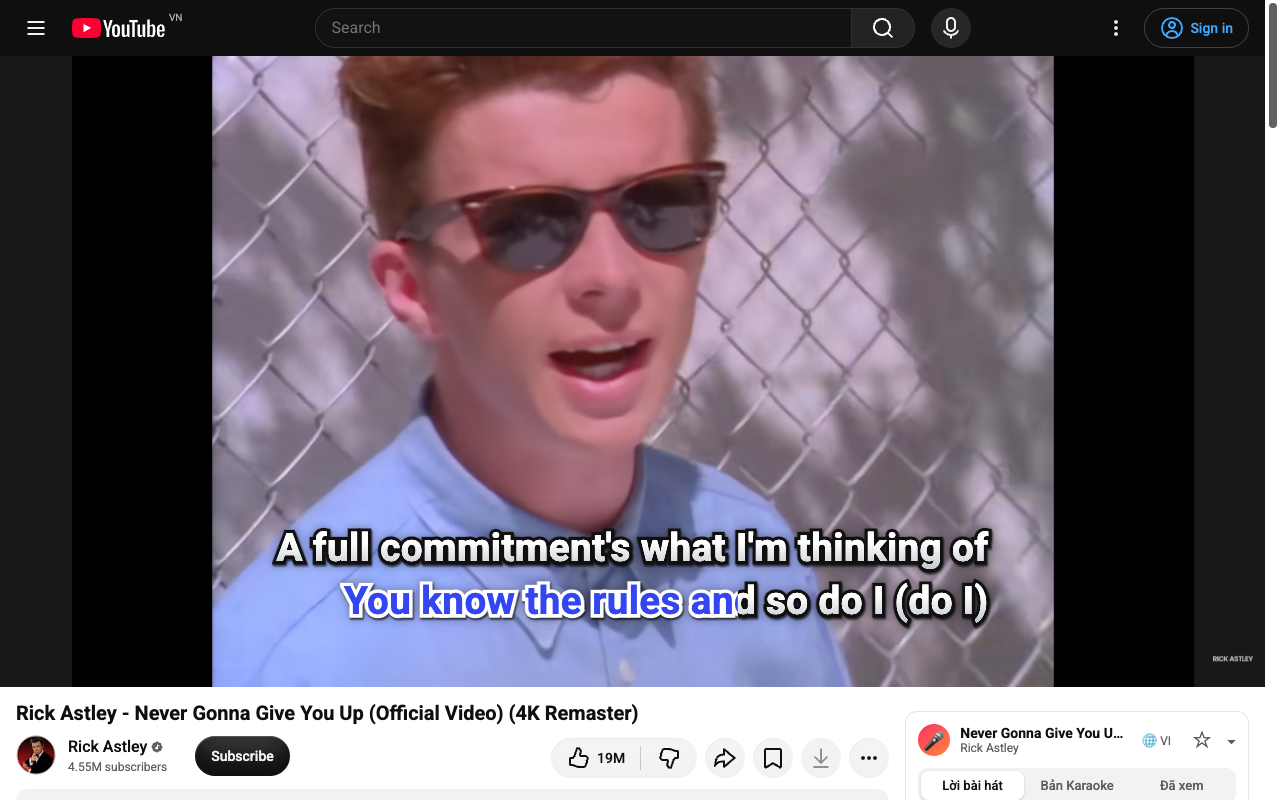
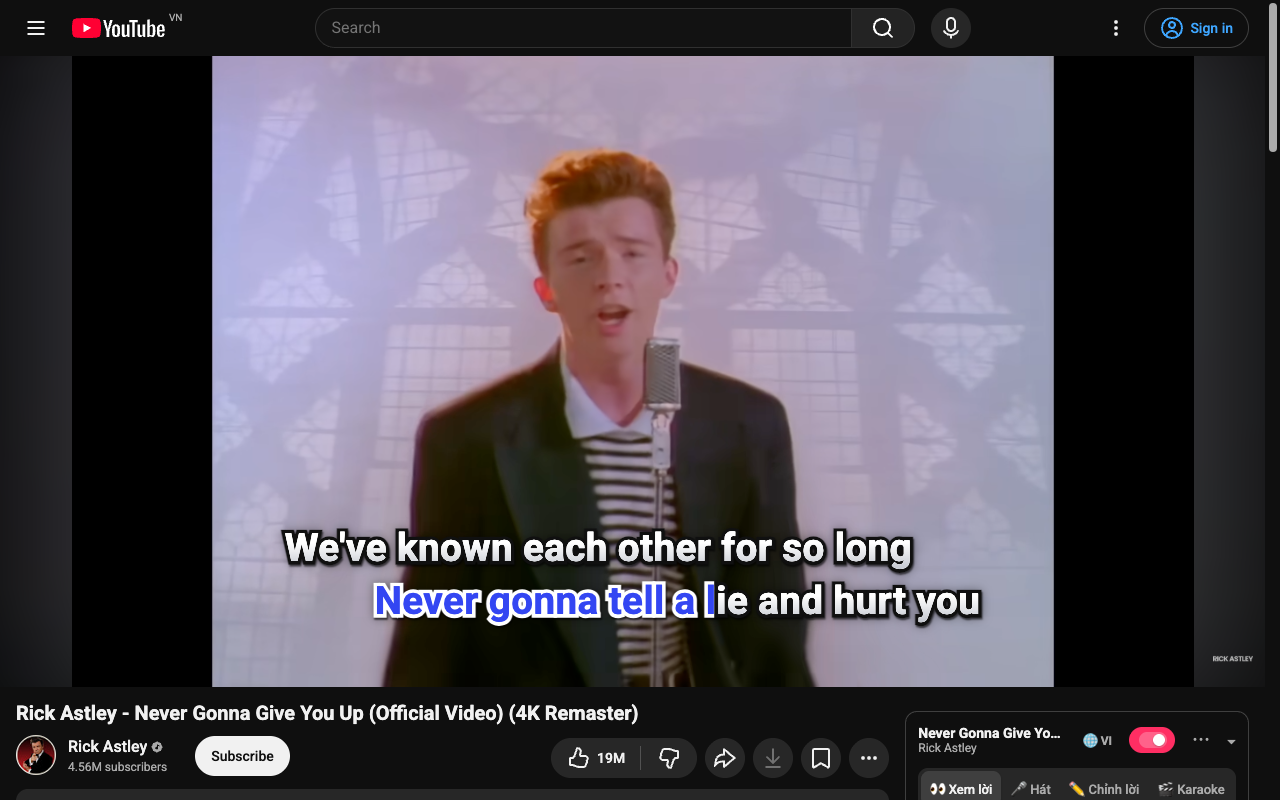
Store images redone from 0.24: four modes, 🎤 on the player, Sing mode with key and vocal cut, 🎨 with 🎲 random; fifth screenshot (studio) now real and in English too

diff --git a/store/mockups.html b/store/mockups.html
@@ -5,7 +5,9 @@
 <title>Store mockups</title>
 <!-- Chrome Web Store images built around real screenshots of the extension on
      YouTube (store/shots/*.png). Rendered by scripts/store-assets.mjs:
-     ?scene=hero|styles|karaoke|sound|promo|marquee&lang=vi|en -->
+     ?scene=hero|styles|karaoke|sound|studio|promo|marquee&lang=vi|en
+     shots/style-*.png are 1280 wide (theater, dark); panel-, sing-, studio-*.png
+     are 1440 wide (default layout, light). -->
 <style>
   * { box-sizing: border-box; }
   body { margin: 0; font-family: Roboto, -apple-system, 'Segoe UI', Arial, sans-serif; color: #fff; background: #0f0f14; overflow: hidden; }
@@ -42,30 +44,36 @@
     vi: {
       heroH: 'Lời bài hát <em>ngay trên YouTube</em>',
       heroS: 'Mở video nhạc là có lời: dòng đang hát sáng lên và tự cuộn, karaoke chạy ngay trên video.',
-      heroC: [['🔎 Tự tìm lời', 'Mô tả, comment, LRCLIB, Hợp âm chuẩn, Genius, phụ đề'], ['🎤 Karaoke trên video', 'Chữ đổi màu theo nhịp hát'], ['🎯 Canh lời dễ', 'Theo phụ đề, gõ nhịp Space, ghim 📍'], ['🌐 12 ngôn ngữ', 'Đổi ngay trên panel']],
+      heroC: [['🔎 Tự tìm lời', 'Mô tả, comment, LRCLIB, Hợp âm chuẩn, Genius, phụ đề'], ['🎤 Karaoke trên video', 'Chữ đổi màu theo nhịp hát, bật tắt ngay trên thanh điều khiển'], ['🧭 4 chế độ gọn', 'Xem lời · Hát · Chỉnh lời · Karaoke'], ['🌐 12 ngôn ngữ', 'Đổi ngay trên đầu panel']],
       stylesH: '9 kiểu <em>phụ đề karaoke</em>',
-      stylesS: 'Chọn một kiểu có sẵn, hoặc tự chỉnh màu, phông, viền, nền rồi lưu thành preset. Ghim 📌 riêng cho từng kênh.',
+      stylesS: 'Chọn một kiểu có sẵn, bấm 🎲 thử kiểu ngẫu nhiên, hoặc tự chỉnh rồi lưu thành preset. Ghim 📌 riêng cho từng kênh.',
+      studioH: 'Kiểu chữ <em>theo ý bạn</em>',
+      studioS: 'Bấm 🎲 để thử kiểu mới, chỉnh từng phần, ↺ để về mặc định, rồi lưu thành preset của riêng bạn.',
+      studioC: ['🎲 Ngẫu nhiên', '↺ Mặc định', '💾 Lưu preset', 'Phông · Màu · Viền · Nền', 'Chuyển màu · Phát sáng', '📌 Theo kênh'],
       karaH: 'Hát theo <em>từng chữ</em> trên video',
       karaS: 'Chữ đổi màu đúng lúc ca sĩ hát, cả khi xem toàn màn hình, chế độ rạp và YouTube Shorts.',
       karaC: ['Toàn màn hình', 'Shorts', 'Cửa sổ nổi ⧉', 'Song ngữ 🌐', 'Phiên âm Hàn · Nhật · Trung 🔤'],
       soundH: 'Hát trên <em>bài gốc</em>',
       soundS: 'Không cần bản karaoke: đổi tông và lọc giọng ca sĩ ngay trong trình duyệt.',
-      soundC: [['🎚 Đổi tông', 'Nâng, hạ nửa cung mà không đổi tốc độ. Nhớ riêng cho từng video.'], ['🎤 Lọc giọng', 'Bớt giọng ca sĩ, giữ lại tiếng đàn, trống và bass.'], ['🎙 Chấm điểm', 'Hát vào micro, mỗi dòng có điểm: đủ lời, đúng nốt.'], ['⬇ Xuất LRC · SRT · ASS', 'Phụ đề karaoke đúng kiểu chữ, ghép cứng vào video của bạn.']],
+      soundC: [['🎚 Đổi tông', 'Nâng, hạ nửa cung mà không đổi tốc độ. Nhớ riêng cho từng video.'], ['🎤 Lọc giọng', 'Giảm rõ giọng ca sĩ, giữ lại tiếng đàn, trống và bass. Kéo thanh để chỉnh mức.'], ['🎙 Chấm điểm', 'Hát vào micro, mỗi dòng có điểm: đủ lời, đúng nốt.'], ['⬇ Xuất LRC · SRT · ASS', 'Phụ đề karaoke đúng kiểu chữ, ghép cứng vào video của bạn.']],
       tag: 'Lời bài hát & karaoke ngay trên YouTube',
       names: { red: 'Karaoke đỏ', classic: 'Karaoke xanh dương', focus: 'Nổi bật', box: 'Khung tối', captions: 'Phụ đề YouTube', cinema: 'Dải điện ảnh', mini: 'Gọn nhẹ', fade: 'Sáng dần', big: 'Chữ lớn' },
     },
     en: {
       heroH: 'Song lyrics <em>right on YouTube</em>',
       heroS: 'Open a music video and the lyrics are there: the sung line lights up and scrolls, with karaoke on the video.',
-      heroC: [['🔎 Finds lyrics', 'Description, comments, LRCLIB, Genius, captions'], ['🎤 Karaoke on video', 'Words light up as they are sung'], ['🎯 Easy timing', 'Sync to captions, tap with Space, pin 📍'], ['🌐 12 languages', 'Switch from the panel']],
+      heroC: [['🔎 Finds lyrics', 'Description, comments, LRCLIB, Genius, captions'], ['🎤 Karaoke on video', 'Words light up as they are sung, one click on the player'], ['🧭 Four simple modes', 'Lyrics · Sing · Edit · Karaoke'], ['🌐 12 languages', 'Switch right at the top of the panel']],
       stylesH: '9 <em>karaoke subtitle</em> styles',
-      stylesS: 'Pick a built-in style, or tune colours, font, outline and background and save it as a preset. Pin 📌 one per channel.',
+      stylesS: 'Pick a built-in style, roll 🎲 for a random one, or tune it and save it as a preset. Pin 📌 one per channel.',
+      studioH: 'Your own <em>subtitle style</em>',
+      studioS: 'Roll 🎲 for a fresh look, fine-tune each part, ↺ to start over, then save it as your own preset.',
+      studioC: ['🎲 Random', '↺ Default', '💾 Save preset', 'Font · Colour · Outline · Background', 'Gradient · Glow', '📌 Per channel'],
       karaH: 'Sing along <em>word by word</em>',
       karaS: 'Words change colour right as they are sung, in full screen, theater mode and on YouTube Shorts.',
       karaC: ['Full screen', 'Shorts', 'Floating window ⧉', 'Translations 🌐', 'Korean · Japanese · Chinese romanization 🔤'],
       soundH: 'Sing over <em>the original</em>',
       soundS: 'No karaoke version needed: change the key and cut the vocals right in your browser.',
-      soundC: [['🎚 Change the key', 'Semitones up or down at the same speed, remembered per video.'], ['🎤 Vocal cut', 'Turns the singer down, keeps the band, drums and bass.'], ['🎙 Scoring', 'Sing into your mic and get a mark for every line.'], ['⬇ Export LRC · SRT · ASS', 'Styled karaoke subtitles to burn into your own video.']],
+      soundC: [['🎚 Change the key', 'Semitones up or down at the same speed, remembered per video.'], ['🎤 Vocal cut', 'Turns the singer well down, keeps the band, drums and bass. Slide to set how much.'], ['🎙 Scoring', 'Sing into your mic and get a mark for every line.'], ['⬇ Export LRC · SRT · ASS', 'Styled karaoke subtitles to burn into your own video.']],
       tag: 'Song lyrics & karaoke right on YouTube',
       names: { red: 'Karaoke red', classic: 'Karaoke blue', focus: 'Spotlight', box: 'Dark box', captions: 'YouTube captions', cinema: 'Cinema band', mini: 'Compact', fade: 'Fade in', big: 'Big words' },
     },
@@ -78,8 +86,11 @@
   };
   const brand = '<div class="brand"><img src="../icons/icon128.png">Better Karaoke</div>';
   // A window onto part of a 1280×800 screenshot: (x, y, w, h) of the source shown at `scale`.
-  const crop = (src, x, y, w, h, scale) =>
-    `<div class="crop" style="width:${w * scale}px;height:${h * scale}px"><img src="shots/${src}.png" style="width:${1280 * scale}px;left:${-x * scale}px;top:${-y * scale}px"></div>`;
+  const crop = (src, x, y, w, h, scale, full = src.startsWith('style-') ? 1280 : 1440) =>
+    `<div class="crop" style="width:${w * scale}px;height:${h * scale}px"><img src="shots/${src}.png" style="width:${full * scale}px;left:${-x * scale}px;top:${-y * scale}px"></div>`;
+  // The default layout at 1440 wide: video and panel.
+  const PANEL = [1021, 68, 388];
+  const PLAYER = [16, 68, 989, 556];
   // The 4:3 video in the theater-mode screenshots.
   const VIDEO = [212, 56, 840, 630];
 
@@ -87,7 +98,7 @@
   if (scene === 'hero') {
     html = `<div class="stage">${brand}<h1>${T.heroH}</h1><p class="sub">${T.heroS}</p>
       <div style="display:flex;gap:26px;align-items:flex-start">
-        <div class="frame" style="width:900px">${crop('panel-' + lang, 0, 0, 1280, 800, 900 / 1280)}</div>
+        <div class="frame" style="width:900px">${crop('panel-' + lang, 0, 0, 1440, 860, 900 / 1440)}</div>
         <div class="cards" style="flex:1">${T.heroC.map(([b, s]) => `<div class="card" style="padding:13px 15px"><b style="font-size:17px">${b}</b><span style="font-size:14px">${s}</span></div>`).join('')}</div>
       </div></div>`;
   } else if (scene === 'styles') {
@@ -102,7 +113,16 @@
     html = `<div class="stage">${brand}<h1>${T.soundH}</h1><p class="sub">${T.soundS}</p>
       <div style="display:flex;gap:40px;align-items:flex-start">
         <div class="cards" style="width:560px">${T.soundC.map(([b, s]) => `<div class="card"><b>${b}</b><span>${s}</span></div>`).join('')}</div>
-        <div class="frame" style="background:#fff">${crop('panel-' + lang, 906, 68, 342, 590, 1.0)}</div>
+        <div class="frame" style="background:#fff">${crop('sing-' + lang, PANEL[0], PANEL[1], PANEL[2], 560, 1.0)}</div>
+      </div></div>`;
+  } else if (scene === 'studio') {
+    html = `<div class="stage">${brand}<h1>${T.studioH}</h1><p class="sub" style="margin-bottom:22px">${T.studioS}</p>
+      <div style="display:flex;gap:28px;align-items:flex-start">
+        <div style="flex:1">
+          <div class="frame">${crop('studio-' + lang, ...PLAYER, 790 / 989)}</div>
+          <div class="chips">${T.studioC.map((c) => `<span>${c}</span>`).join('')}</div>
+        </div>
+        <div class="frame" style="background:#fff">${crop('studio-' + lang, PANEL[0], 420, PANEL[2], 600, 0.92)}</div>
       </div></div>`;
   } else if (scene === 'promo') {
     html = `<div class="stage" style="width:440px;height:280px;padding:26px 28px;display:flex;flex-direction:column;justify-content:space-between;
